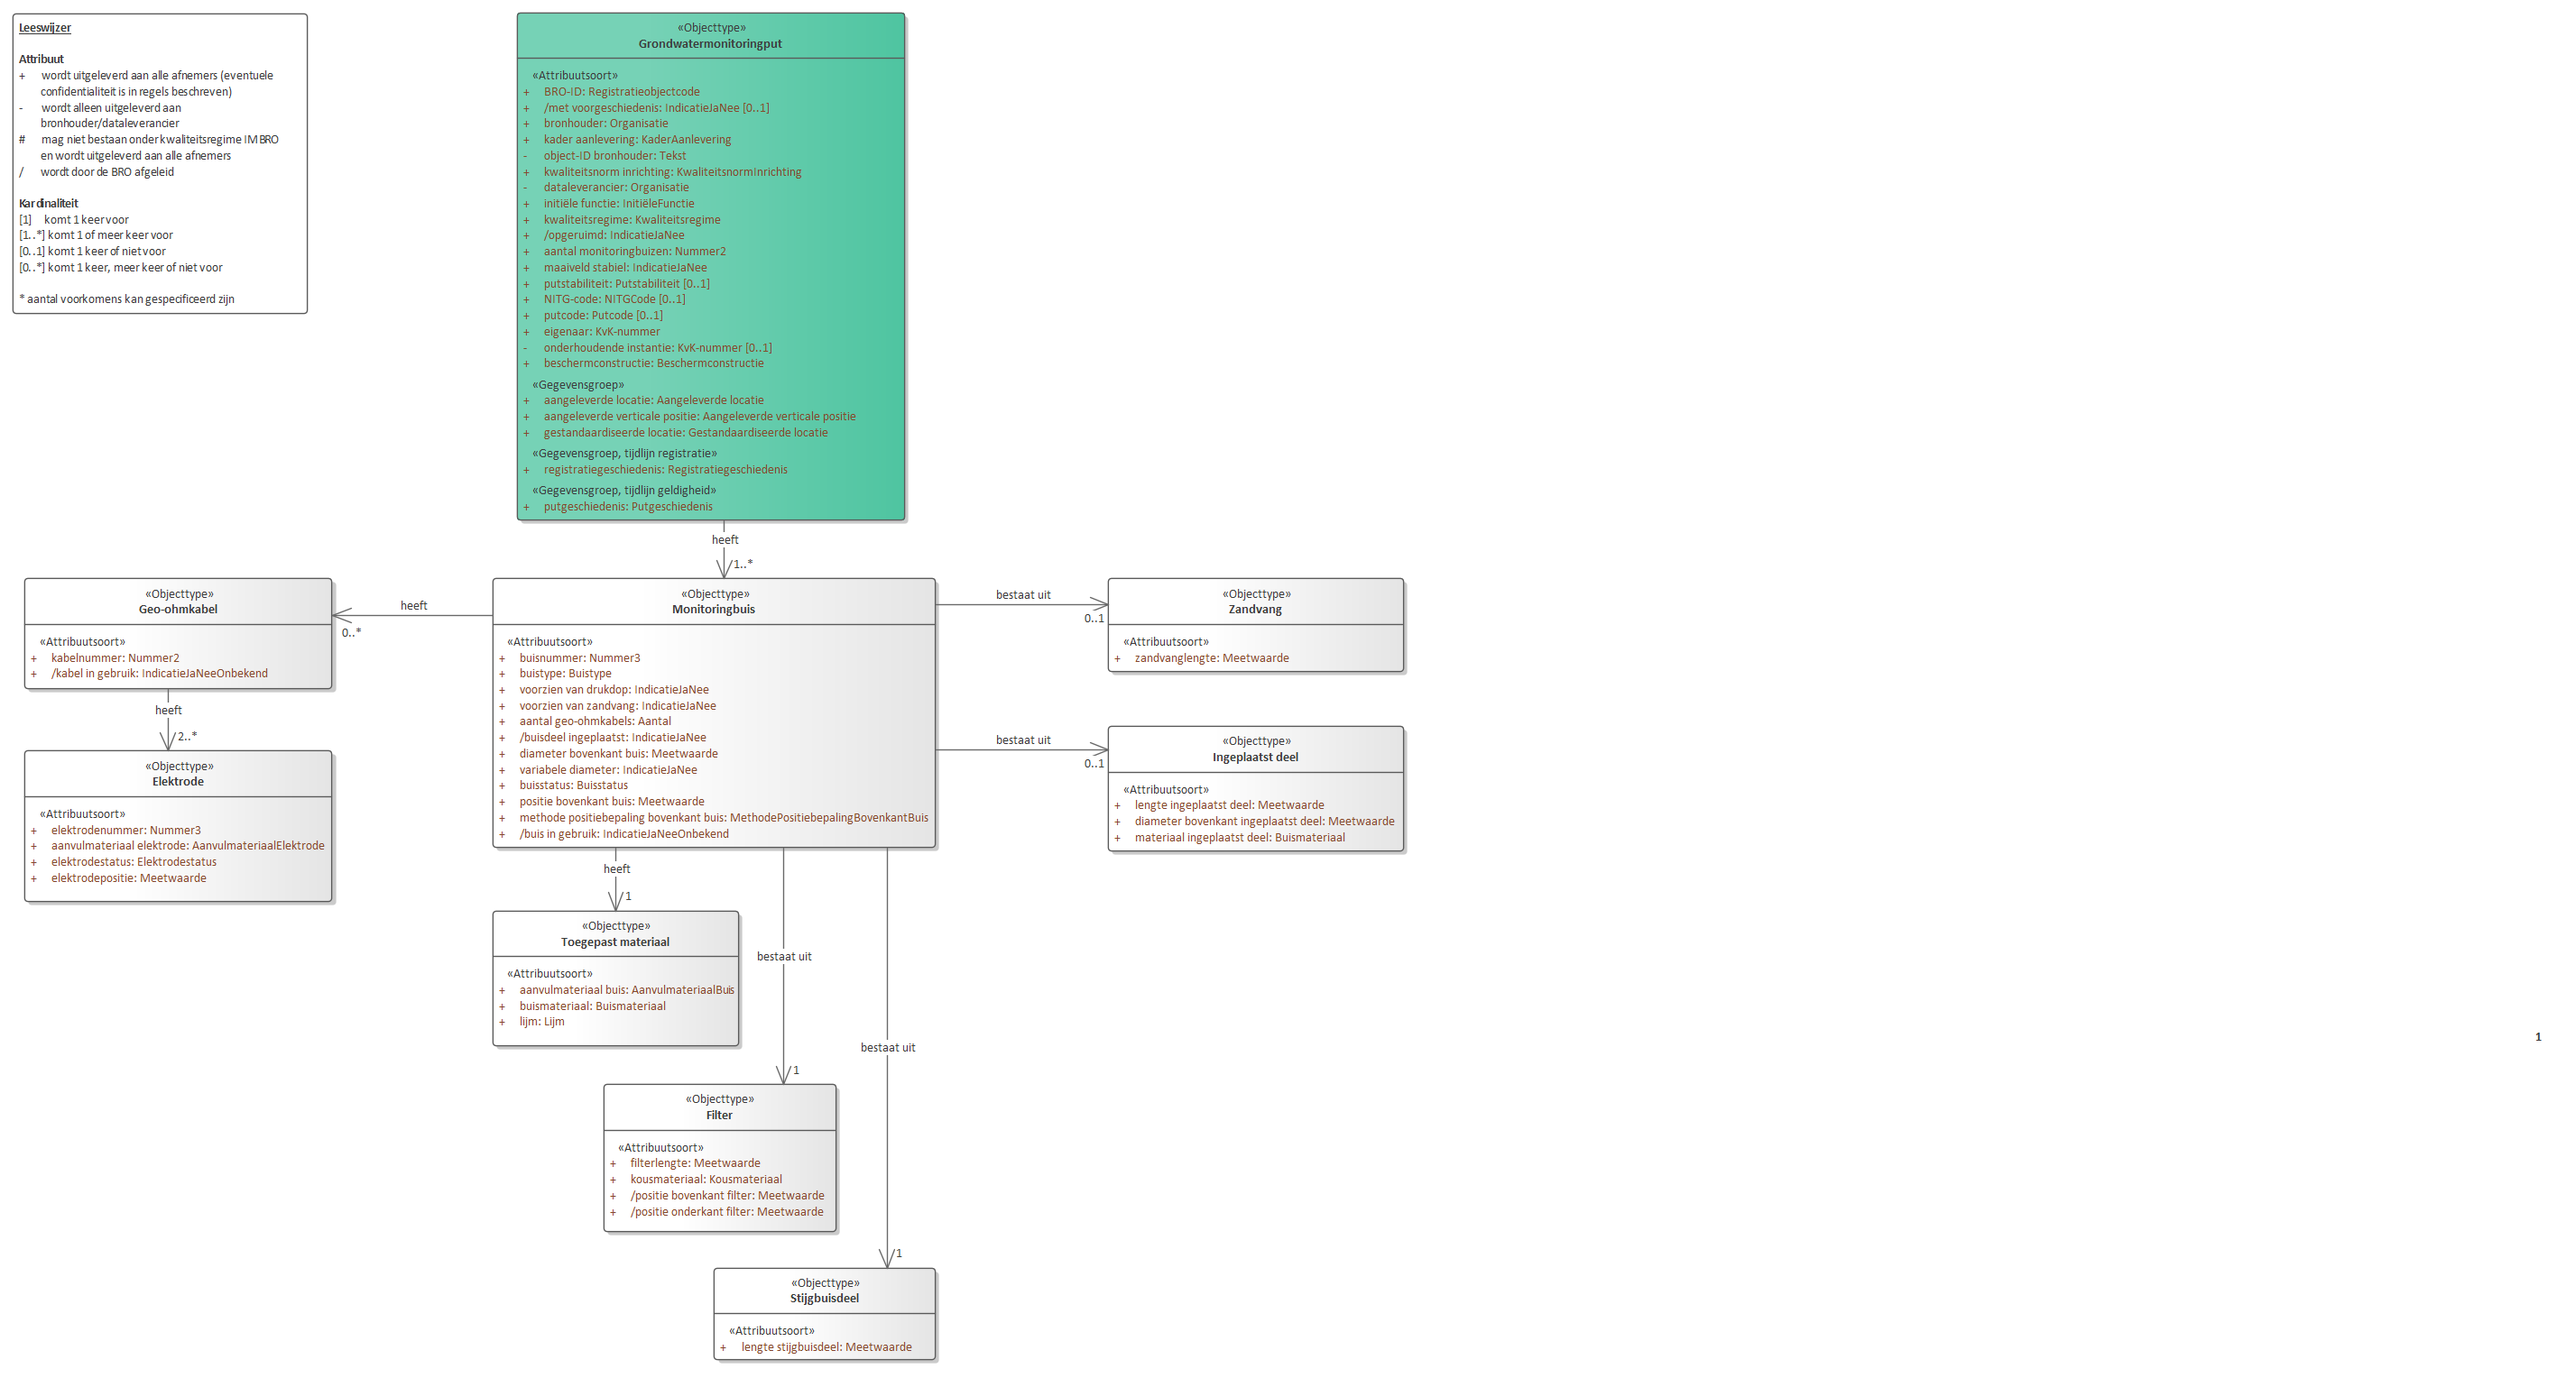
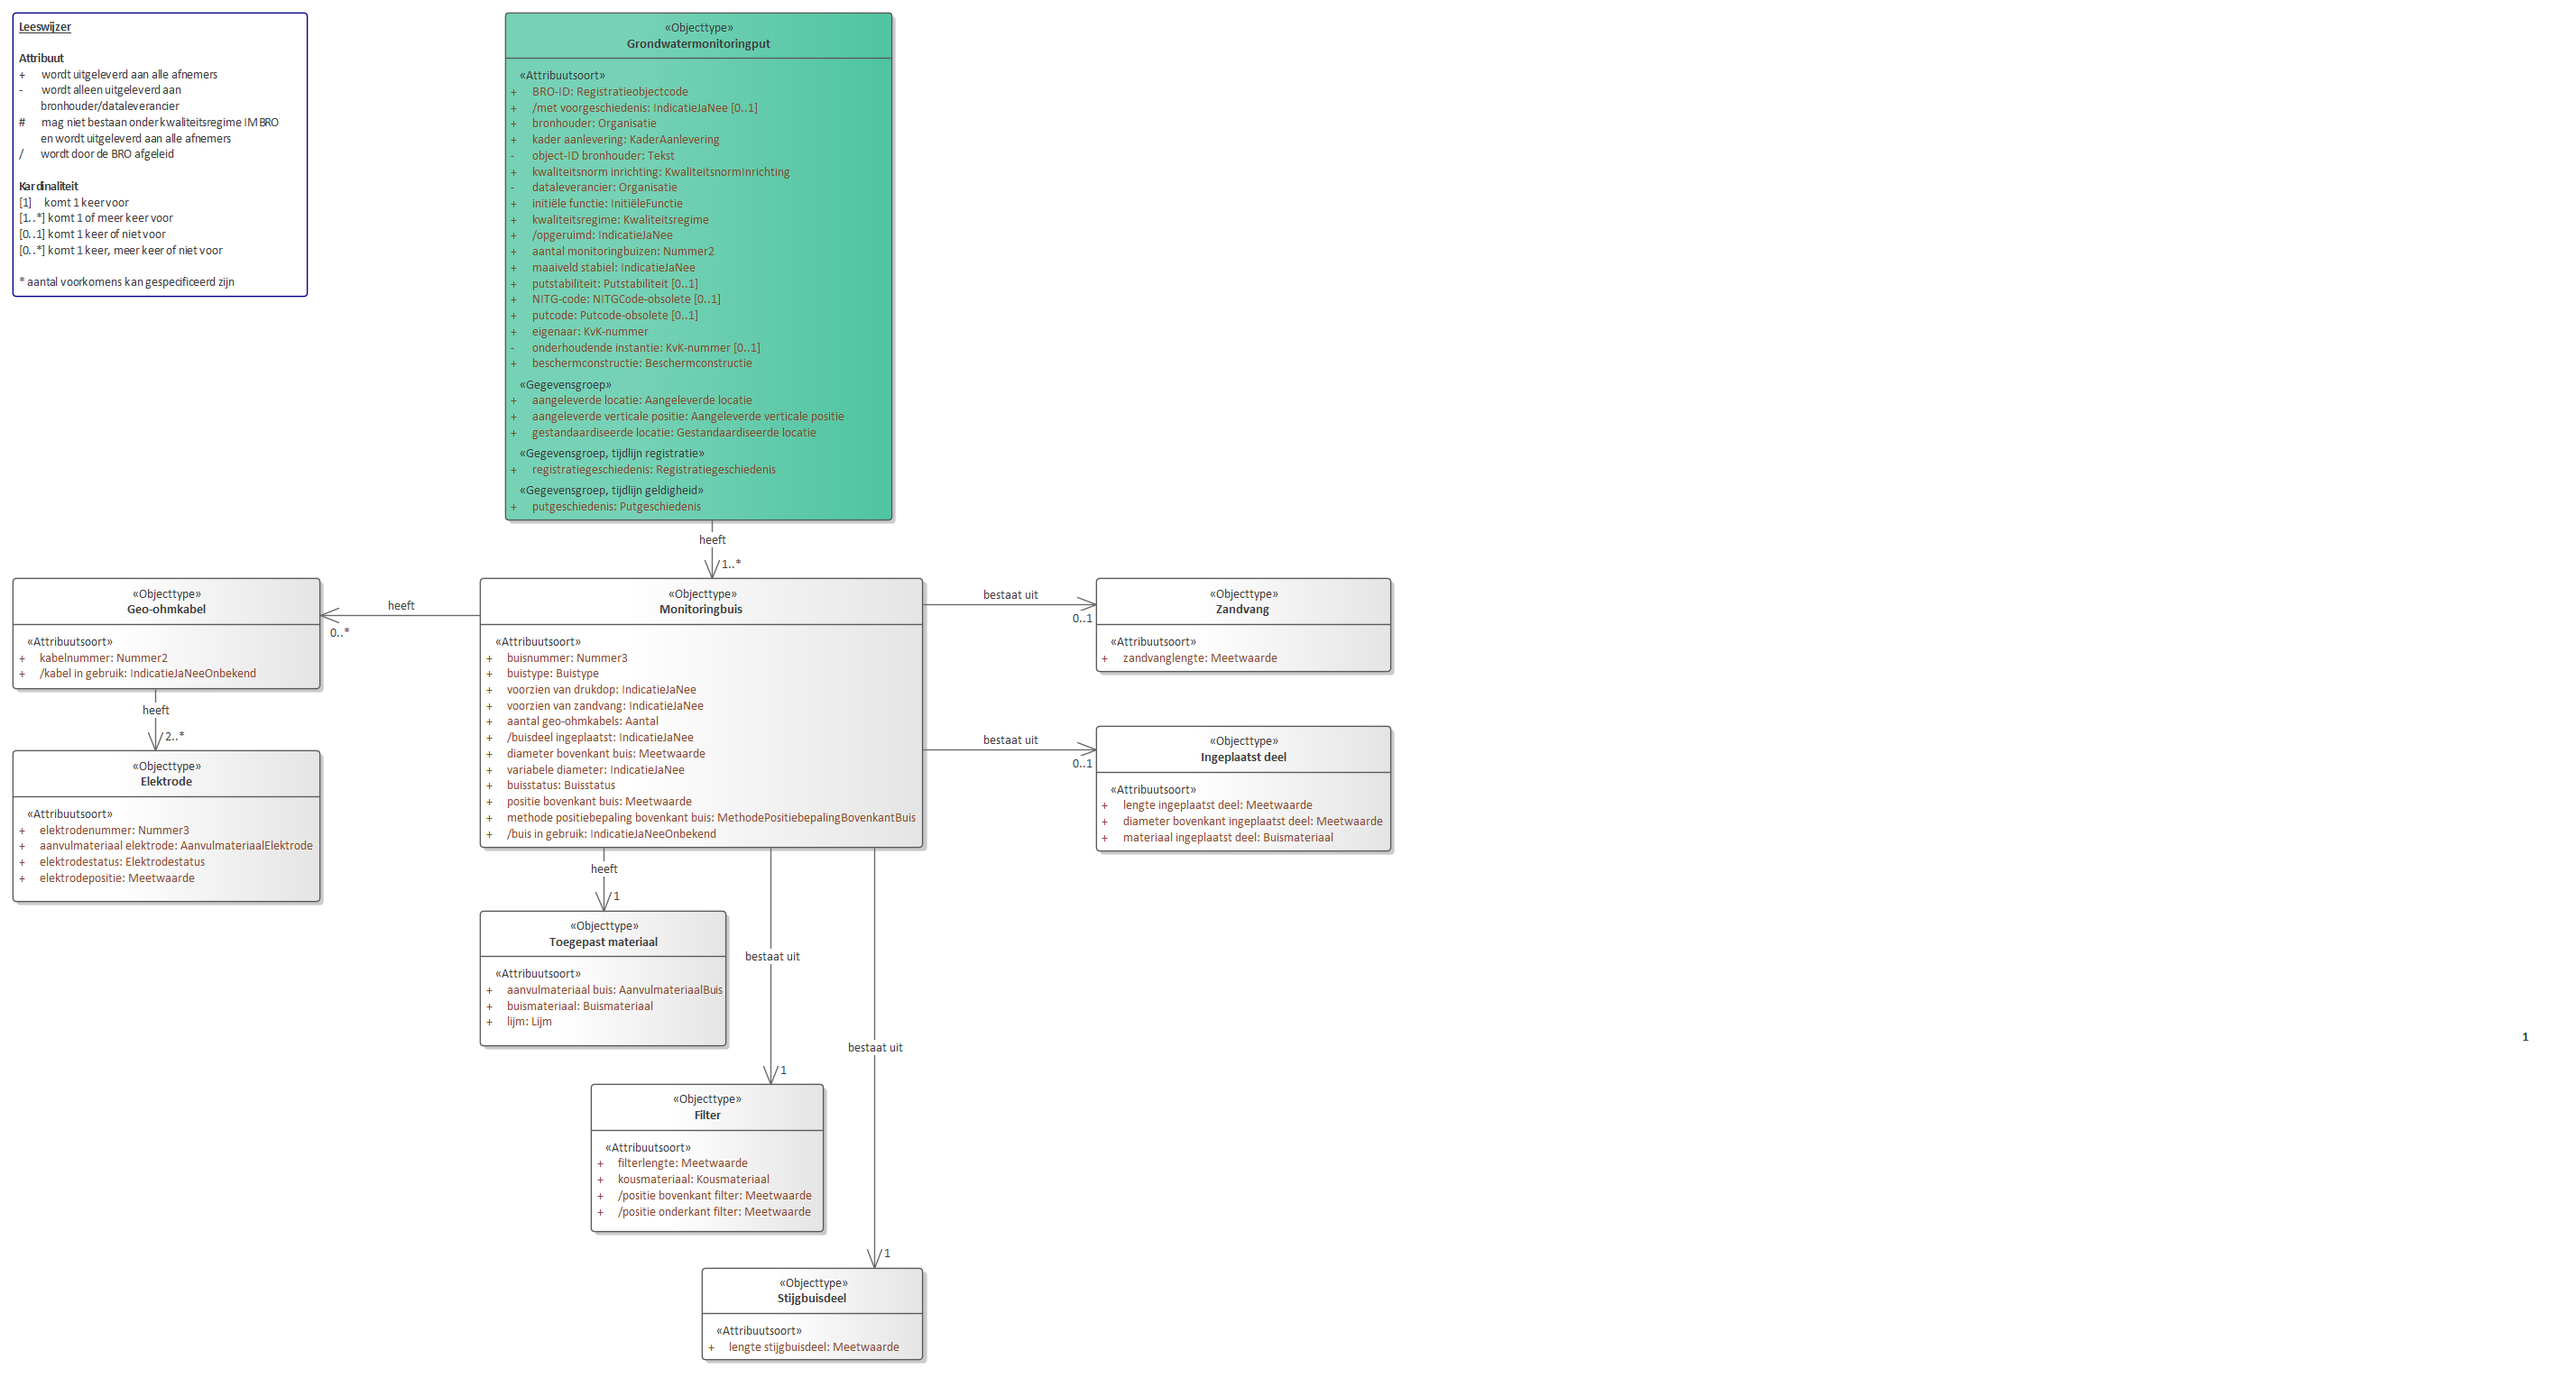
Conceptualmodel-GMWconceptueelMIM-1.1-1-20190910-20220523-091225

diff --git a/data/GMW-cat.msword.html b/data/GMW-cat.msword.html
@@ -15,7 +15,7 @@
    <body>
       <p>Conceptual model/GMW conceptueel MIM/20190910</p>
       <p>Imvertor: 1.65.4</p>
-      <p>Model release: Conceptualmodel-GMWconceptueelMIM-1.1-1-20190910-20220519-084527</p>
+      <p>Model release: Conceptualmodel-GMWconceptueelMIM-1.1-1-20190910-20220523-091225</p>
       <hr>
       <section>
          <h1>Artikel 1 Definitie van registratieobject, entiteiten en attributen</h1>
@@ -62,7 +62,7 @@
          <section>
             <h2>Het domeinmodel</h2>
             <section id="">
-               <div class="imageinfo overview"><img src="Images/EAID_E820AF53_7FB7_42e8_95C4_297D746526CE.png" usemap="#imagemap-EAID_E820AF53_7FB7_42e8_95C4_297D746526CE" alt="Diagram &#xA;                        &#xA;                     "><map name="imagemap-EAID_E820AF53_7FB7_42e8_95C4_297D746526CE"><area shape="rect" alt="Monitoringbuis" coords="546,641,1037,940" href="#graph_EAID_37A4505C_6C20_449b_A69D_5A3FD406F71F"><area shape="rect" alt="Toegepast materiaal" coords="546,1010,819,1160" href="#graph_EAID_991ABB1E_6DE8_44be_9F69_873394B4A09F"><area shape="rect" alt="Ingeplaatst deel" coords="1228,805,1556,944" href="#graph_EAID_2844EE68_F05D_489f_B88E_36D5EB750FB8"><area shape="rect" alt="Zandvang" coords="1228,641,1556,745" href="#graph_EAID_CE9B3282_A2CA_4584_B481_3AAD2ED94AA0"><area shape="rect" alt="Grondwatermonitoringput" coords="573,14,1003,577" href="#graph_EAID_E20E6BE9_A59A_4c79_B908_1A41DD2640E0"><area shape="rect" alt="Geo-ohmkabel" coords="27,641,368,764" href="#graph_EAID_054D0A9D_812D_4cbd_8B7A_B33B81D5C6F5"><area shape="rect" alt="Filter" coords="669,1202,927,1366" href="#graph_EAID_84B999FC_3DE9_4f72_A0A7_99DDD6DB7CB7"><area shape="rect" alt="Elektrode" coords="27,832,368,1000" href="#graph_EAID_6ECD016F_FD12_4466_9B1C_75DBB79A89DC"><area shape="rect" alt="Stijgbuisdeel" coords="791,1406,1037,1508" href="#graph_EAID_3ECF9C95_1E37_4c37_A603_3EE701474DA1"></map><p><b>Grondwatermonitorput (GMW)</b></p>
+               <div class="imageinfo overview"><img src="Images/EAID_E820AF53_7FB7_42e8_95C4_297D746526CE.png" usemap="#imagemap-EAID_E820AF53_7FB7_42e8_95C4_297D746526CE" alt="Diagram &#xA;                        &#xA;                     "><map name="imagemap-EAID_E820AF53_7FB7_42e8_95C4_297D746526CE"><area shape="rect" alt="Monitoringbuis" coords="532,641,1023,940" href="#graph_EAID_37A4505C_6C20_449b_A69D_5A3FD406F71F"><area shape="rect" alt="Toegepast materiaal" coords="532,1010,805,1160" href="#graph_EAID_991ABB1E_6DE8_44be_9F69_873394B4A09F"><area shape="rect" alt="Ingeplaatst deel" coords="1215,805,1542,944" href="#graph_EAID_2844EE68_F05D_489f_B88E_36D5EB750FB8"><area shape="rect" alt="Zandvang" coords="1215,641,1542,745" href="#graph_EAID_CE9B3282_A2CA_4584_B481_3AAD2ED94AA0"><area shape="rect" alt="Grondwatermonitoringput" coords="560,14,989,577" href="#graph_EAID_E20E6BE9_A59A_4c79_B908_1A41DD2640E0"><area shape="rect" alt="Geo-ohmkabel" coords="14,641,355,764" href="#graph_EAID_054D0A9D_812D_4cbd_8B7A_B33B81D5C6F5"><area shape="rect" alt="Filter" coords="655,1202,913,1366" href="#graph_EAID_84B999FC_3DE9_4f72_A0A7_99DDD6DB7CB7"><area shape="rect" alt="Elektrode" coords="14,832,355,1000" href="#graph_EAID_6ECD016F_FD12_4466_9B1C_75DBB79A89DC"><area shape="rect" alt="Stijgbuisdeel" coords="778,1406,1023,1508" href="#graph_EAID_3ECF9C95_1E37_4c37_A603_3EE701474DA1"></map><p><b>Grondwatermonitorput (GMW)</b></p>
                </div>
             </section>
          </section>
@@ -884,7 +884,7 @@
                            <tr>
                               <th>&nbsp;&nbsp;Naam</th>
                               <td>
-                                 NITGCode
+                                 NITGCode-obsolete
                                  </td>
                            </tr>
                            <tr>
@@ -949,7 +949,7 @@
                            <tr>
                               <th>&nbsp;&nbsp;Naam</th>
                               <td>
-                                 Putcode
+                                 Putcode-obsolete
                                  </td>
                            </tr>
                            <tr>

diff --git a/data/GMW-cat.respec.html b/data/GMW-cat.respec.html
@@ -40,7 +40,7 @@
       </section>
    <section id="">
       <h2>Het domeinmodel   </h2>
-      <div class="imageinfo overview"><img src="data/Images/EAID_E820AF53_7FB7_42e8_95C4_297D746526CE.png" usemap="#imagemap-EAID_E820AF53_7FB7_42e8_95C4_297D746526CE" alt="Diagram &#xA;                        &#xA;                     "><map name="imagemap-EAID_E820AF53_7FB7_42e8_95C4_297D746526CE"><area shape="rect" alt="Monitoringbuis" coords="546,641,1037,940" href="#graph_EAID_37A4505C_6C20_449b_A69D_5A3FD406F71F"><area shape="rect" alt="Toegepast materiaal" coords="546,1010,819,1160" href="#graph_EAID_991ABB1E_6DE8_44be_9F69_873394B4A09F"><area shape="rect" alt="Ingeplaatst deel" coords="1228,805,1556,944" href="#graph_EAID_2844EE68_F05D_489f_B88E_36D5EB750FB8"><area shape="rect" alt="Zandvang" coords="1228,641,1556,745" href="#graph_EAID_CE9B3282_A2CA_4584_B481_3AAD2ED94AA0"><area shape="rect" alt="Grondwatermonitoringput" coords="573,14,1003,577" href="#graph_EAID_E20E6BE9_A59A_4c79_B908_1A41DD2640E0"><area shape="rect" alt="Geo-ohmkabel" coords="27,641,368,764" href="#graph_EAID_054D0A9D_812D_4cbd_8B7A_B33B81D5C6F5"><area shape="rect" alt="Filter" coords="669,1202,927,1366" href="#graph_EAID_84B999FC_3DE9_4f72_A0A7_99DDD6DB7CB7"><area shape="rect" alt="Elektrode" coords="27,832,368,1000" href="#graph_EAID_6ECD016F_FD12_4466_9B1C_75DBB79A89DC"><area shape="rect" alt="Stijgbuisdeel" coords="791,1406,1037,1508" href="#graph_EAID_3ECF9C95_1E37_4c37_A603_3EE701474DA1"></map><p><b>Grondwatermonitorput (GMW)</b></p>
+      <div class="imageinfo overview"><img src="data/Images/EAID_E820AF53_7FB7_42e8_95C4_297D746526CE.png" usemap="#imagemap-EAID_E820AF53_7FB7_42e8_95C4_297D746526CE" alt="Diagram &#xA;                        &#xA;                     "><map name="imagemap-EAID_E820AF53_7FB7_42e8_95C4_297D746526CE"><area shape="rect" alt="Monitoringbuis" coords="532,641,1023,940" href="#graph_EAID_37A4505C_6C20_449b_A69D_5A3FD406F71F"><area shape="rect" alt="Toegepast materiaal" coords="532,1010,805,1160" href="#graph_EAID_991ABB1E_6DE8_44be_9F69_873394B4A09F"><area shape="rect" alt="Ingeplaatst deel" coords="1215,805,1542,944" href="#graph_EAID_2844EE68_F05D_489f_B88E_36D5EB750FB8"><area shape="rect" alt="Zandvang" coords="1215,641,1542,745" href="#graph_EAID_CE9B3282_A2CA_4584_B481_3AAD2ED94AA0"><area shape="rect" alt="Grondwatermonitoringput" coords="560,14,989,577" href="#graph_EAID_E20E6BE9_A59A_4c79_B908_1A41DD2640E0"><area shape="rect" alt="Geo-ohmkabel" coords="14,641,355,764" href="#graph_EAID_054D0A9D_812D_4cbd_8B7A_B33B81D5C6F5"><area shape="rect" alt="Filter" coords="655,1202,913,1366" href="#graph_EAID_84B999FC_3DE9_4f72_A0A7_99DDD6DB7CB7"><area shape="rect" alt="Elektrode" coords="14,832,355,1000" href="#graph_EAID_6ECD016F_FD12_4466_9B1C_75DBB79A89DC"><area shape="rect" alt="Stijgbuisdeel" coords="778,1406,1023,1508" href="#graph_EAID_3ECF9C95_1E37_4c37_A603_3EE701474DA1"></map><p><b>Grondwatermonitorput (GMW)</b></p>
       </div>
    </section>
    <section id="">
@@ -860,7 +860,7 @@
                   <tr>
                      <th>&nbsp;&nbsp;Naam</th>
                      <td>
-                        NITGCode
+                        NITGCode-obsolete
                         </td>
                   </tr>
                   <tr>
@@ -925,7 +925,7 @@
                   <tr>
                      <th>&nbsp;&nbsp;Naam</th>
                      <td>
-                        Putcode
+                        Putcode-obsolete
                         </td>
                   </tr>
                   <tr>
